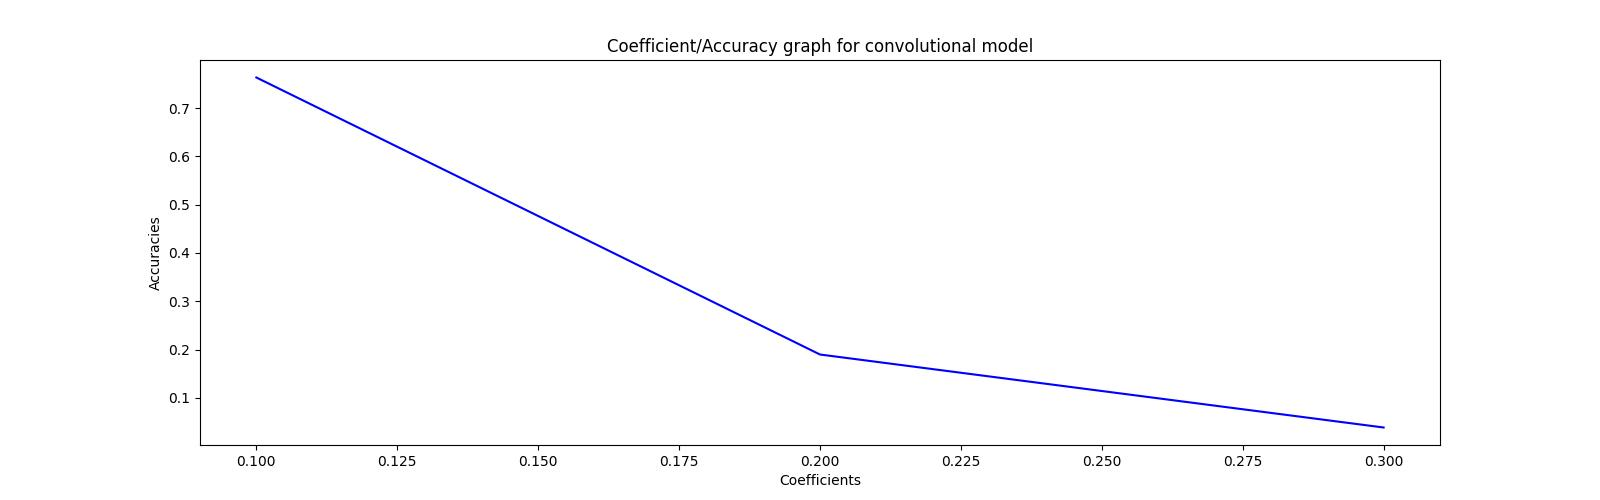
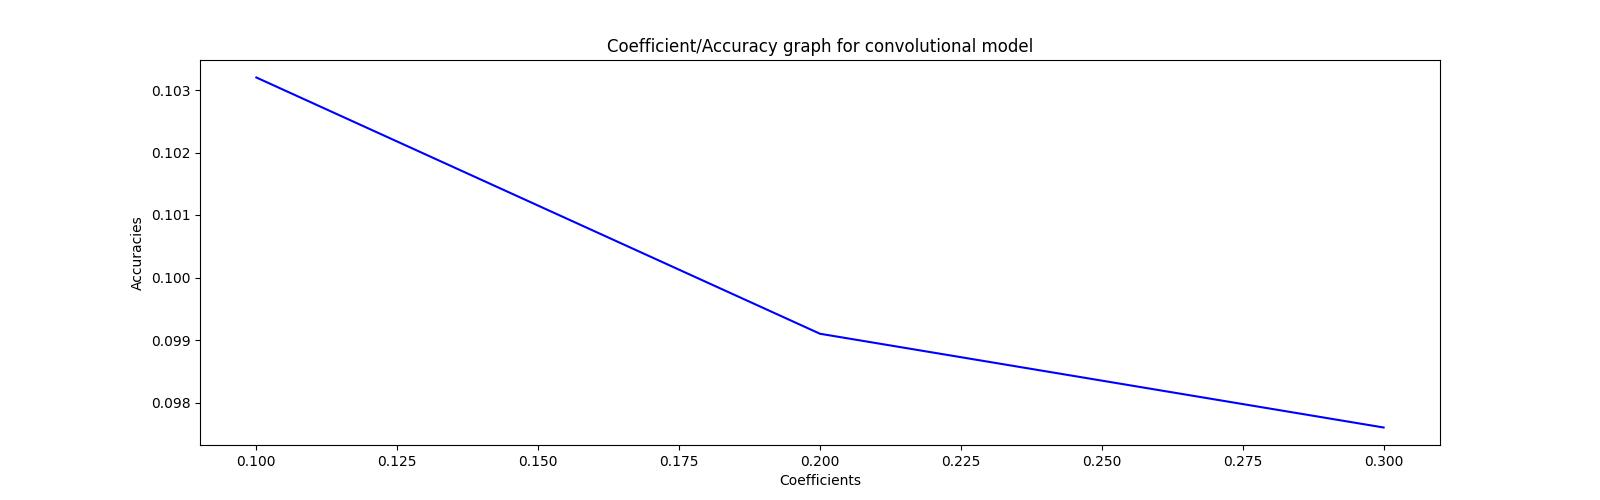
refactor for fgsm attack

diff --git a/attack_funcs.py b/attack_funcs.py
@@ -6,10 +6,27 @@ from train_util import get_loss, eval, eval_perf_multi
 from graphing_funcs import graph_attack, graph_attack_accuracies
 from AdvExample import AdvExample
 
-def attack_fgsm(image, data_grad, koef=0.3):
-    data_grad = torch.sign(data_grad)
-    attacked_image = image + data_grad * koef
-    return torch.clamp(attacked_image, min=0, max=1)
+def attack_fgsm(model, images, labels, eps=0.3):
+    device = torch.device("cuda" if torch.cuda.is_available() else "cpu")
+    model.eval()
+
+    images = images.clone().detach().to(device)
+    labels = labels.clone().detach().to(device)
+    adv_examples = images.clone().detach().to(device)
+    adv_examples.requires_grad = True
+
+    probs = model(adv_examples)
+    loss = get_loss(probs, labels)
+
+    model.zero_grad()
+    loss.backward()
+
+    data_grad = adv_examples.grad.data
+
+    adv_examples = adv_examples.detach() + eps * data_grad.sign()
+    adv_examples = torch.clamp(adv_examples, min=0, max=1).detach()
+
+    return adv_examples
 
 def attack_pgd(model, images, labels, eps=0.3, koef_it=0.05, steps=7):
     device = torch.device("cuda" if torch.cuda.is_available() else "cpu")
@@ -48,6 +65,7 @@ def attack_model_pgd(model, x_test, y_test, eps_list=[0.1, 0.2, 0.3], koefs_it=[
     adv_accs = dict()
 
     for eps, koef_it in zip(eps_list, koefs_it):
+        torch.cuda.empty_cache()
         print(f"Attacking with coefficient: {eps}...")
         permutations = torch.randperm(len(x_test))
         x_test = x_test.detach()[permutations]
@@ -80,58 +98,44 @@ def attack_model_pgd(model, x_test, y_test, eps_list=[0.1, 0.2, 0.3], koefs_it=[
     graph_attack_accuracies(adv_accs)
         
 
-def attack_model_test(model, x_test, y_test, koefs=[0.1, 0.2, 0.3], adv_cnt=3):
+def attack_model_fgsm(model, x_test, y_test, eps_list=[0.1, 0.2, 0.3]):
     device = torch.device("cuda" if torch.cuda.is_available() else "cpu")
     model.eval()
+
+    y_test_oh = class_to_onehot(y_test.detach().cpu())
+    y_test_oh = torch.tensor(y_test_oh).to(device)
 
     adv_dict = dict()
     adv_accs = dict()
 
-    for koef in koefs:
-        print(f"Attacking with coefficient: {koef}...")
+    for eps in eps_list:
+        torch.cuda.empty_cache()
+        print(f"Attacking with coefficient: {eps}...")
         permutations = torch.randperm(len(x_test))
         x_test = x_test.detach()[permutations]
-        y_test = y_test.detach()[permutations]
+        y_test_oh = y_test_oh.detach()[permutations]
+
+        probs = model(x_test.to(device))
+        y_pred = np.argmax(probs.detach().cpu().numpy(), axis=1)
+
+        adv_examples = attack_fgsm(model, x_test, y_test_oh, eps)
+
+        att_probs = eval(model, adv_examples)
+        attacked_pred = np.argmax(att_probs, axis=1)  
+
+        acc, _ , _ = eval_perf_multi(y_test.detach().cpu().numpy(), attacked_pred)
 
         adv_list = list()
-        acc = 0
-        for input, correct_class in zip(x_test, y_test):
-            input = input.to(device)
-            input.requires_grad = True
+        for i in range(len(y_pred)):
+            if y_pred[i] != attacked_pred[i]:
+                adv_list.append(AdvExample(int(y_pred[i]), int(attacked_pred[i]), x_test[i].detach().cpu().numpy(), adv_examples[i].detach().cpu().numpy()))
+                if len(adv_list) == 3: break
 
-            probs = model.forward(input)
-            y_pred = np.argmax(probs.detach().cpu().numpy(), axis=1)
-            
-            if correct_class != torch.tensor(y_pred):
-                continue
-            
-            correct_class_oh = np.zeros(10)
-            correct_class_oh[int(correct_class)] = 1
+        adv_dict.update({eps: adv_list})
+        adv_accs.update({eps: acc})
 
-            loss = get_loss(probs, torch.tensor(correct_class_oh).to(device))
-
-            model.zero_grad()
-            loss.backward()
-
-            data_grad = input.grad.data
-            attacked_image = attack_fgsm(input, data_grad, koef)
-
-            tprobs = eval(model, attacked_image.to(device))
-            attacked_pred = np.argmax(tprobs, axis=1)
-
-            if torch.tensor(attacked_pred) == correct_class:
-                #print("Still classifies correctly...")
-                acc += 1
-                continue
-
-            if len(adv_list) < adv_cnt:
-                adv_list.append(AdvExample(int(y_pred), int(attacked_pred), input.detach().cpu().numpy(), attacked_image.detach().cpu().numpy()))
+        print(f"Finished attacking with coefficient: {eps}...")
     
-        print(f"Finished attacking with coefficient: {koef}...")
-        adv_dict.update({koef: adv_list})
-        acc = acc / len(x_test)
-        adv_accs.update({koef: acc})
-        
     model.train()
 
     graph_attack(adv_dict)

diff --git a/projekt.py b/projekt.py
@@ -5,9 +5,9 @@ import matplotlib.pyplot as plt
 import time
 
 from util import load_mnist, class_to_onehot
-from train_util import get_loss, eval_after_epoch
+from train_util import get_loss, eval_after_epoch, eval_perf_multi, eval
 from test_util import evaluate_model
-from attack_funcs import attack_model_test, attack_model_pgd
+from attack_funcs import attack_model_fgsm, attack_model_pgd
 from graphing_funcs import show_loss, show_train_accuracies, show_weights, graph_stats, graph_details
 
 device = torch.device("cuda" if torch.cuda.is_available() else "cpu")
@@ -204,8 +204,13 @@ if __name__ == "__main__":
     # print("Test accuracy:")
     # print(test_acc)
 
-    #attack_model_test(model, x_test, y_test)
-    attack_model_pgd(model, x_test, y_test)
+    # probs = eval(model, x_test.to(device))
+    # preds = np.argmax(probs, axis=1)  
+    # acc, _ , _ = eval_perf_multi(y_test.detach().cpu().numpy(), preds)
+    # print(acc)
+
+    attack_model_fgsm(model, x_test, y_test)
+    #attack_model_pgd(model, x_test, y_test)
 
     # model = FCmodel(torch.relu, 784, 250, 10).to(device)
     # losses, train_accuracies = train(model, x_train, y_train, param_niter=300, param_delta=0.07, batch_size=50, epoch_print=30)
